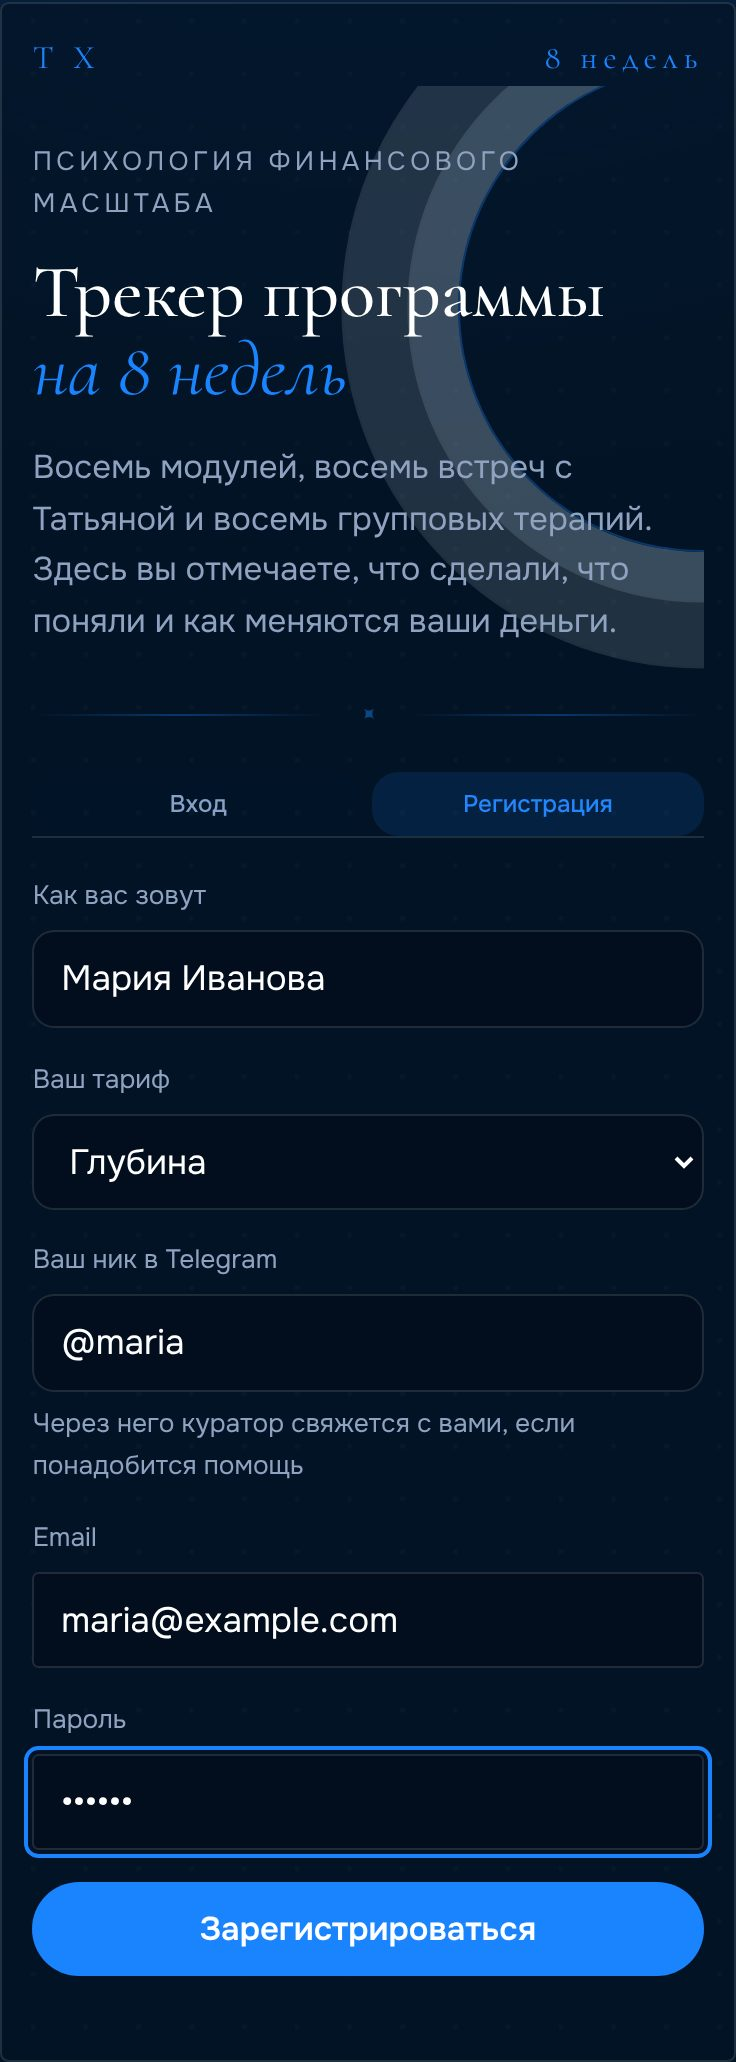
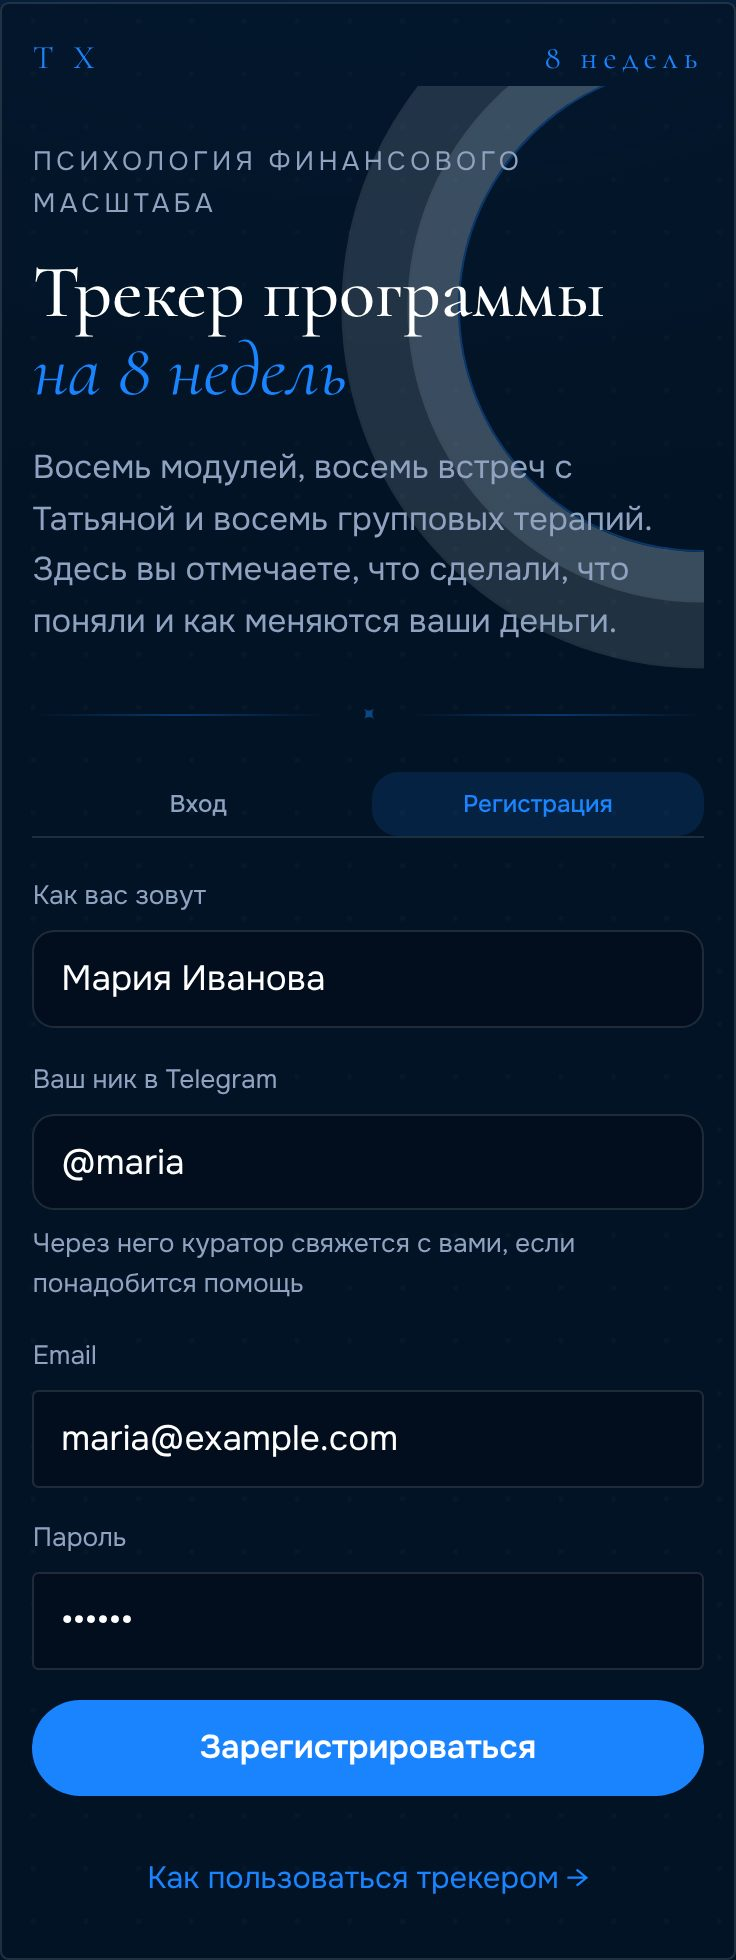
Тарифы скрыты от участников: нет выбора при регистрации, карточек и упоминаний; тариф ставит администратор
Практики не своего тарифа участнику не показываются. Инструкция и скриншот регистрации без тарифа.

Claude-Session: https://claude.ai/code/session_01Ap7g13T5idtYD8rgZRr2ux

diff --git a/app.js b/app.js
@@ -232,7 +232,7 @@
     h += '<div class="block"><h3>О вас</h3><div class="row"><label class="f" for="s-name">Как вас зовут<input type="text" id="s-name" data-bind="start.name" value="' + esc(v.name) + '" placeholder="Имя и фамилия" autocomplete="name"' + dis() + '></label>' +
       '<label class="f" for="s-tg">Ник в Telegram<input type="text" id="s-tg" data-bind="start.tg" value="' + esc(v.tg) + '" placeholder="@nickname" autocapitalize="off" spellcheck="false"' + dis() + '></label>' +
       '<label class="f" for="s-date">Старт программы<input type="date" id="s-date" data-bind="start.date" value="' + esc(v.date) + '"' + dis() + '></label></div></div>';
-    h += planBlock();
+    if (VIEW && admin) h += planBlock(); // участникам тарифы не показываем: это платформа, а не витрина
     h += '<div class="block"><h3>Доход на старте</h3><div class="row">' +
       '<label class="f" for="s-income">Ваш доход в месяц сейчас<input type="number" inputmode="numeric" id="s-income" data-bind="start.income" value="' + esc(v.income) + '" placeholder="0"' + dis() + '></label>' +
       '<label class="f" for="s-cur">Валюта<select id="s-cur" data-bind="start.cur"' + dis() + '>' + ['€', '$', '₴'].map(function (c) { return '<option' + (v.cur === c ? ' selected' : '') + '>' + c + '</option>'; }).join('') + '</select></label></div>' +
@@ -269,7 +269,7 @@
     h += '<div class="chips" id="chips">' + MODULES.map(function (x, i) { return '<button class="chip" type="button" data-w="' + i + '" aria-pressed="' + (i === cur) + '">' + (i + 1) + '<small>неделя</small></button>'; }).join('') + '</div>';
     var rng = weekRange(cur);
     h += '<div class="wk-head"><div><p class="eyebrow">Неделя ' + (cur + 1) + (rng ? ' · ' + rng : '') + '</p><h2>' + M[0] + '</h2></div><div class="ring" id="w-ring" role="img"></div></div>';
-    if (!planId() && !VIEW) h += '<div class="helpbox"><span class="ci">' + svg('start') + '</span><div class="hb-text"><b>Выберите ваш тариф</b><small>От тарифа зависит, что показывает трекер.</small></div><button class="btn" type="button" data-goplan="1">Выбрать</button></div>';
+    if (false) h += '<div class="helpbox"><span class="ci">' + svg('start') + '</span><div class="hb-text"><b>Выберите ваш тариф</b><small>От тарифа зависит, что показывает трекер.</small></div><button class="btn" type="button" data-goplan="1">Выбрать</button></div>';
     h += meetingBlock();
     h += curatorBlock();
     h += pushBlock();
@@ -278,12 +278,12 @@
     h += '<div class="block"><h3>На этой неделе</h3><div class="checks">' +
       (isRec() ? chkRow('w-meet', 'weeks.' + cur + '.meet', w.meet, 'Запись встречи с Татьяной', 'Доступна через сутки после эфира', 'meet')
         : chkRow('w-meet', 'weeks.' + cur + '.meet', w.meet, 'Живая встреча с Татьяной', '', 'meet')) +
-      (isVip() ? chkRow('w-vip', 'weeks.' + cur + '.vip', w.vip, 'Индивидуальная сессия с Татьяной', 'В тарифе VIP 4 сессии за программу', 'star') : '') +
+      (isVip() ? chkRow('w-vip', 'weeks.' + cur + '.vip', w.vip, 'Индивидуальная сессия с Татьяной', '4 сессии за программу', 'star') : '') +
       (feature('group') ? chkRow('w-group', 'weeks.' + cur + '.group', w.group, 'Групповая терапия', '', 'group') : '') +
       (feature('chat') ? chkRow('w-chat', 'weeks.' + cur + '.chat', w.chat, 'Сообщение психотерапевту в чате', 'Личный психотерапевт отвечает с обратной связью', 'chat') : '') +
       (feature('buddy') ? chkRow('w-buddy', 'weeks.' + cur + '.buddy', w.buddy, 'Созвон с бадди', '', 'buddy') : '') +
-      '</div>' + (isRec() ? '<p class="scale">Групповая терапия, личный психотерапевт и бадди входят в тарифы «Поток», «Глубина» и VIP.</p>' : '') + '</div>';
-    var wnums = openNums(cur + 1);
+      '</div>' + '</div>';
+    var wnums = openNums(cur + 1).filter(function (n) { return practiceAccess(cur + 1, n) === 'ok'; });
     h += '<div class="block"><h3>Практики модуля</h3><div class="checks">' + (wnums.length ? '' : '<p class="scale" style="margin:0">Практики этой недели появятся после встречи с Татьяной.</p>') + wnums.map(function (n) {
       var j = n - 1, p = practices[pkey(cur + 1, n)];
       var title = esc((p && p.title) || 'Практика');
@@ -783,7 +783,7 @@
     var wk = cur + 1, list = weekPractices(wk), w = S.weeks[cur], h = '';
     var doneN = w.practices.filter(function (v, j) { return v && practiceAccess(wk, j + 1) === 'ok'; }).length, ofN = practicesOpenTo(cur);
     h += '<div class="chips">' + MODULES.map(function (x, i) {
-      var n = openNums(i + 1).length;
+      var n = openNums(i + 1).filter(function (k) { return admin || practiceAccess(i + 1, k) === 'ok'; }).length;
       return '<button class="chip pchip' + (n ? '' : ' locked') + '" type="button" data-pw="' + i + '" aria-pressed="' + (i === cur) + '">' + (i + 1) + '<small>' + (n ? n + ' ' + practWord(n) : 'скоро') + '</small></button>';
     }).join('') + '</div>';
     h += '<div class="mod-head"><h2>Модуль ' + wk + ' · <em>' + MODULES[cur][0] + '</em></h2>' +
@@ -793,7 +793,7 @@
     // Участник видит открытые практики; администратор — все созданные (и черновики) и кнопку «Добавить практику»
     var shown = [1, 2, 3].filter(function (n) {
       var p = practices[pkey(wk, n)];
-      return admin ? !!p || (pdraft && pdraft.week === wk && pdraft.num === n) : !!(p && p.is_open);
+      return admin ? !!p || (pdraft && pdraft.week === wk && pdraft.num === n) : !!(p && p.is_open) && practiceAccess(wk, n) === 'ok';
     });
     var free = [1, 2, 3].filter(function (n) { return !practices[pkey(wk, n)] && !(pdraft && pdraft.week === wk && pdraft.num === n); });
     h += '<div class="plist">' + shown.map(function (n, k) { return practiceCard(list[n - 1], n - 1, k); }).join('') + '</div>';
@@ -1496,7 +1496,7 @@
     $('a-signup').setAttribute('aria-selected', String(m === 'signup'));
     $('a-name-wrap').hidden = m !== 'signup';
     $('a-tg-wrap').hidden = m !== 'signup';
-    $('a-plan-wrap').hidden = m !== 'signup';
+    $('a-plan-wrap').hidden = true; // тариф участнику ставит администратор
     $('a-pass-wrap').hidden = m === 'forgot';
     $('a-forgot').hidden = m !== 'login';
     $('a-pass').autocomplete = m === 'signup' ? 'new-password' : 'current-password';
@@ -1524,7 +1524,6 @@
     if (!email) return authMsg('Введите email.', 'err');
     if (mode !== 'forgot' && pass.length < 6) return authMsg('Пароль должен быть не короче 6 символов.', 'err');
     if (mode === 'signup' && !$('a-name').value.trim()) return authMsg('Напишите, как вас зовут.', 'err');
-    if (mode === 'signup' && !$('a-plan').value) return authMsg('Выберите ваш тариф.', 'err');
     if (mode === 'signup' && !tgNick($('a-tg').value)) return authMsg('Напишите ник в Telegram, например @anna_ivanova. Его можно посмотреть в Telegram: Настройки, затем Имя пользователя.', 'err');
     btn.disabled = true; authMsg('Секунду…');
     var p;

diff --git a/guide.html b/guide.html
@@ -70,10 +70,10 @@ figure.small img { max-width: 390px; }
     <h2>Регистрация</h2>
     <ol>
       <li>Откройте трекер по ссылке и нажмите <b>«Регистрация»</b>.</li>
-      <li>Впишите имя и фамилию, выберите свой тариф, укажите ник в Telegram (через него с вами свяжется куратор).</li>
+      <li>Впишите имя и фамилию и ник в Telegram (через него с вами свяжется куратор).</li>
       <li>Введите почту и придумайте пароль от 6 символов. Нажмите <b>«Зарегистрироваться»</b>.</li>
     </ol>
-    <figure><img src="guide/01-signup.jpg" alt="Экран регистрации: имя, тариф, ник в Telegram, почта и пароль" width="368" height="1031" loading="lazy"></figure>
+    <figure><img src="guide/01-signup.jpg" alt="Экран регистрации: имя, ник в Telegram, почта и пароль" loading="lazy"></figure>
     <div class="tip"><b>В следующий раз</b> нажимайте «Вход» и вводите ту же почту и пароль. Забыли пароль — нажмите «Забыли пароль?» под кнопкой входа.</div>
   </section>
 
@@ -149,7 +149,7 @@ figure.small img { max-width: 390px; }
     <figure><img src="guide/07-practice-done.jpg" alt="Поле для заметок после практики и кнопка Отметить выполненной" width="390" height="214" loading="lazy"></figure>
     <p>Ниже, в блоке <b>«Техники»</b>, — тренажёры для самостоятельной работы между встречами: метафорические карты, проработка эмоций и полярностей. Каждый открывается отдельно.</p>
     <figure><img src="guide/08-tools.jpg" alt="Блок Техники с карточкой Метафорические карты и кнопкой Открыть" width="390" height="454" loading="lazy"></figure>
-    <div class="tip"><b>Нужна помощь?</b> Раскройте практику: внизу есть кнопка «Написать куратору об этой практике», куратор свяжется с вами в Telegram. В тарифе «Записи» вопросы задаются в общем чате потока.</div>
+    <div class="tip"><b>Нужна помощь?</b> Раскройте практику: внизу есть кнопка «Написать куратору об этой практике», куратор свяжется с вами в Telegram.</div>
   </section>
 
   <section id="total">

diff --git a/index.html b/index.html
@@ -60,7 +60,7 @@
         </div>
         <form id="auth-form" class="auth" novalidate>
           <label class="f" for="a-name" id="a-name-wrap" hidden>Как вас зовут<input type="text" id="a-name" autocomplete="name" placeholder="Имя и фамилия"></label>
-          <label class="f" for="a-plan" id="a-plan-wrap" hidden>Ваш тариф<select id="a-plan"><option value="">Выберите тариф</option><option value="rec">Записи</option><option value="flow">Поток</option><option value="deep">Глубина</option><option value="vip">VIP</option></select></label>
+          <span id="a-plan-wrap" hidden><select id="a-plan"><option value=""></option></select></span>
           <label class="f" for="a-tg" id="a-tg-wrap" hidden>Ваш ник в Telegram<input type="text" id="a-tg" autocomplete="off" autocapitalize="off" spellcheck="false" placeholder="@nickname"><small class="hint">Через него куратор свяжется с вами, если понадобится помощь</small></label>
           <label class="f" for="a-email">Email<input type="email" id="a-email" autocomplete="email" inputmode="email" required></label>
           <label class="f" for="a-pass" id="a-pass-wrap">Пароль<input type="password" id="a-pass" autocomplete="current-password" minlength="6" required></label>
